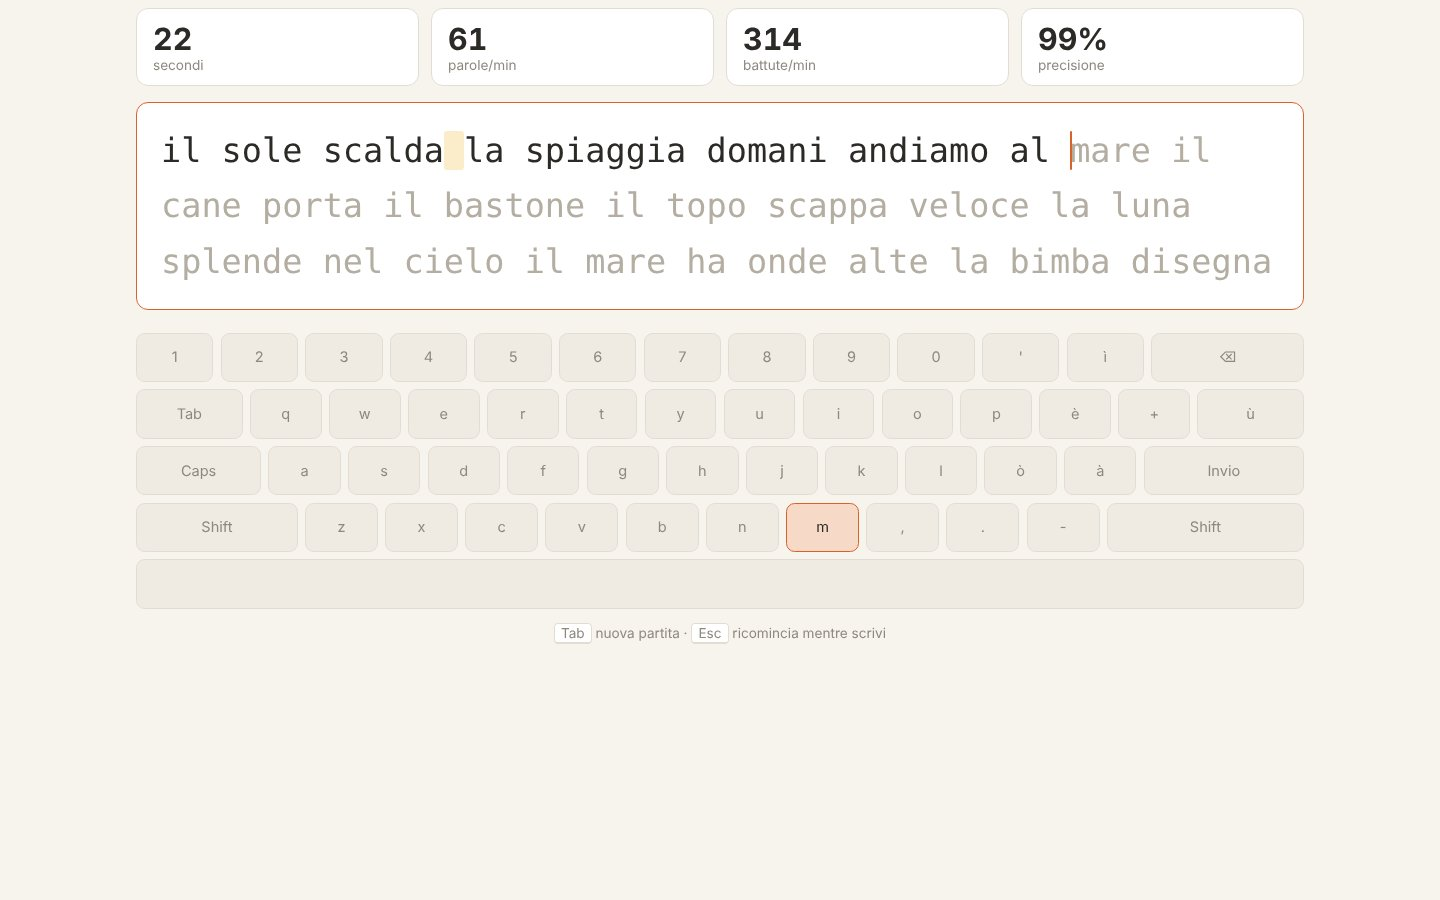
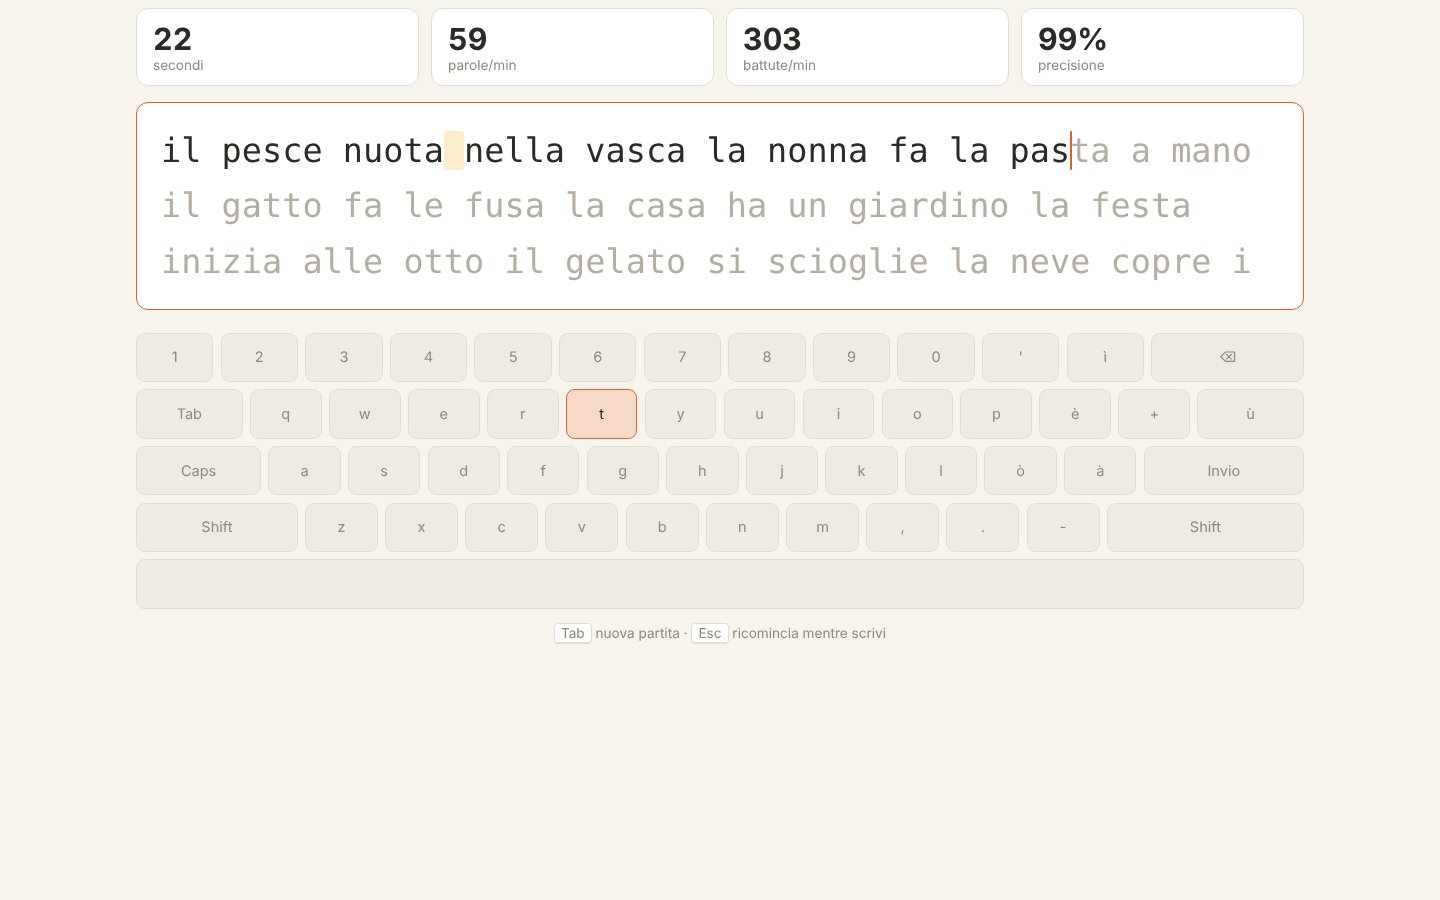
Produzione test-digitazione: studio del sito (esploratore)
Claude-Session: https://claude.ai/code/session_01CqqP6k4GxnS65Xhse5CfSK

diff --git a/studio-video/docs/produzione/test-digitazione/sito.md b/studio-video/docs/produzione/test-digitazione/sito.md
@@ -1,0 +1,166 @@
+# Sito — Test di digitazione (esploratore)
+
+Fonti: `sito/sito.json` (cattura del 2026-11-06 su `http://127.0.0.1:8790/index.html`),
+le catture in `sito/` (guardate una per una), i testi dell'interfaccia in `testi.js`,
+il `README.md` del test. Sito pubblico: `elnachohub.github.io/test-digitazione`.
+
+## Cosa fa, per chi
+
+**In una frase:** un test di velocità di scrittura sulla tastiera che fa copiare
+"frasi di senso compiuto" in italiano o inglese, con un cronometro, e alla fine
+mostra parole al minuto, precisione, un grafico e i tasti sbagliati.
+
+**Per chi:** studenti, chi lavora al computer e chi vuole scrivere più veloce, in
+italiano e in inglese (l'interfaccia cambia lingua con il mondo in alto a destra:
+"Italiano / English").
+
+## Vantaggi più forti (con le parole del sito)
+
+1. **Si parte subito:** "Clicca qui e inizia a scrivere: il tempo parte al primo tasto."
+   Durate "30 s · 60 s · 120 s", livelli "Facile · Medio · Difficile".
+2. **Testi veri, non lettere a caso:** "Frasi di senso compiuto · tastiera QWERTY",
+   in italiano e inglese; interruttori "Maiuscole e punteggiatura" e "Lettere accentate",
+   tastiera "Italiana" o "Americana (US)".
+3. **Risultato completo:** "parole/min", "battute/min", "precisione", "caratteri giusti",
+   "record", più il grafico "Andamento della sfida" (Velocità, Errori, Fluidità secondo
+   per secondo).
+4. **Capisci dove sbagli:** "Errori per tipo", "Tasti più sbagliati", "Serie di parole
+   senza errori" ("Un pallino per parola: verde se scritta senza nessun errore").
+   Durante il test la tastiera sullo schermo evidenzia il prossimo tasto.
+5. **Modalità Arcade (la sfida):** "Arcade: parti con 45 secondi. Ogni frase completata
+   ti dà tempo, le frasi perfette di più." Con punti, moltiplicatore "×2 ×3 ×4" e serie.
+
+Extra utili per il promo: profili per più persone sullo stesso browser e "Tabella sfida"
+("I profili di questo browser, con le impostazioni attuali"): è una sfida tra chi usa
+lo stesso computer, **non** una classifica online. Privacy, dal README: "Profili e
+risultati restano solo nel tuo browser: il sito non ha un server e non raccoglie dati
+personali."
+
+## Prove vere
+
+**Mancano.** Il sito non riporta numeri di utenti, recensioni, valutazioni o classifiche
+mondiali. Le parole "gratis" e "senza registrazione" non sono scritte da nessuna parte
+(né nel sito né nel README): non si vede nessun accesso o account, ma la frase non c'è.
+Frase usabile e dimostrabile: "i tuoi risultati restano nel tuo browser" (README).
+I numeri nelle catture (60 parole/min, 100%) sono di una nostra partita di prova
+automatica: si possono mostrare come esempio di schermata, **mai** come prova o media.
+
+## Colori, stile, tema
+
+- **Accento del marchio:** `#d9622b` (arancione bruciato; unico candidato in
+  `sito.json`, è anche `--accento` di `stile.css` e `theme_color` del manifest).
+- Sfondo pagina `#f7f4ee` (crema), testo `#2b2a27`, schede bianche con bordo `#e2ddd3`,
+  angoli arrotondati 12 px; caratteri di sistema senza grazie, testo da copiare in
+  monospazio. Esiste anche un tema scuro automatico (`prefers-color-scheme`).
+- **Tema Studio Video più vicino: `carta`** (sfondo `#f2ebdd` crema, accento `#d6461f`)
+  con `"accento": "#d9622b"`. Il carattere `editoriale` di carta è più da rivista del
+  sito: per il tono giocoso proverei `"carattere": "grottesco"` o `"pulito"` (scelta
+  dell'art director).
+- **Logo:** copiato in `sito/logo.png` (icona 512×512: tasto crema con "a" e cursore
+  arancione su fondo `#d9622b`). Nel JSON: `"logo": "sito/logo.png"`.
+
+## Catture disponibili (tutte in `sito/`)
+
+| File | Misura | Cosa mostra |
+|---|---|---|
+| `computer-schermo.jpg` | 1440×900 | prima visita, nessun clic (vedi rischio 1: livello non evidenziato) |
+| `computer-pagina.jpg` | 1440×1369 | pagina intera su computer, con "Punteggi di Giocatore 1" vuoti |
+| `telefono-pagina.jpg` | 1170×4431 | pagina intera su telefono (senza tastiera disegnata) |
+| `stato-1-scelte.jpg` | 1440×900 | Classica + **30 s** + **Facile** scelti, testo pronto, "Clicca qui e inizia a scrivere" |
+| `stato-2-scrittura.jpg` | 1440×900 | test in corso: 22 secondi, 59 parole/min, 99%; testo scritto in nero, tasto "t" evidenziato, un errore di spazio in giallo |
+| `stato-3-risultati.jpg` | 1440×900 | "Risultato": 60 parole/min, 304 battute/min, 100%, 151 caratteri giusti, record 60 + grafico |
+| `stato-4-grafico.jpg` | 1440×900 | grafico "Andamento della sfida", "Errori per tipo", "Tasti più sbagliati", serie, "Nuova partita" |
+| `logo.png` | 512×512 | icona del sito |
+
+Gli stati 1-4 vengono dalla stessa partita (Classica, 30 s, Facile, maiuscole spente,
+tastiera italiana), quindi testo e numeri sono coerenti tra loro. Script:
+`/tmp/claude-0/-home-user-test-digitazione/261a504a-6831-58fc-9788-a92cfa78f0c8/scratchpad/esploratore/stati.js`
+(viewport 1440×900, JPEG 85, non a pagina intera).
+
+## Percorso del tutorial (passi con coordinate)
+
+Coordinate `x`,`y` = centro dell'elemento in frazioni dell'immagine 1440×900,
+misurate con `getBoundingClientRect()` / `innerWidth`, `innerHeight` nella stessa
+sessione delle catture. Una scena `tutorial` = una sola immagine, quindi il percorso
+è diviso in 3-4 scene (≥ 2,5 s a passo).
+
+**Scena A — scegli (`sito/stato-1-scelte.jpg`)**
+
+| Passo | Testo suggerito | x | y |
+|---|---|---|---|
+| 1 | Scegli la durata: 30 secondi | 0.311 | 0.270 |
+| 2 | Scegli il livello: Facile | 0.475 | 0.270 |
+| 3 | Clicca sul testo e inizia a scrivere | 0.500 | 0.645 |
+
+Altri punti della stessa immagine: Classica 0.150,0.270 · Arcade 0.228,0.270 ·
+60 s 0.355,0.270 · 120 s 0.401,0.270 · Medio 0.529,0.270 · Difficile 0.587,0.270 ·
+lingua (mondo) 0.872,0.050 · scritta "Clicca qui e inizia a scrivere" 0.500,0.744.
+
+**Scena B — scrivi (`sito/stato-2-scrittura.jpg`)** (la pagina scorre da sola e
+inquadra testo e tastiera quando cominci)
+
+| Passo | Testo suggerito | x | y |
+|---|---|---|---|
+| 1 | Il tempo parte al primo tasto | 0.193 | 0.043 |
+| 2 | La velocità cresce mentre scrivi | 0.398 | 0.043 |
+| 3 | La tastiera ti indica il prossimo tasto | 0.418 | 0.460 |
+
+Altri punti: precisione 0.807,0.043 · cursore nel testo ~0.743,0.167 · errore di
+spazio in giallo ~0.315,0.167 · area del testo 0.500,0.352.
+
+**Scena C — risultati (`sito/stato-3-risultati.jpg`)**
+
+| Passo | Testo suggerito | x | y |
+|---|---|---|---|
+| 1 | Le tue parole al minuto | 0.186 | 0.130 |
+| 2 | Precisione e record | 0.500 | 0.130 |
+| 3 | Il grafico secondo per secondo | 0.500 | 0.465 |
+
+Altri punti: record 0.814,0.130 · titolo "Risultato" 0.500,0.057.
+
+**Scena D (facoltativa) — dove sbagli e rigioca (`sito/stato-4-grafico.jpg`)**
+
+| Passo | Testo suggerito | x | y |
+|---|---|---|---|
+| 1 | Vedi i tasti che sbagli | 0.500 | 0.623 |
+| 2 | Le parole perfette di fila | 0.500 | 0.774 |
+| 3 | Nuova partita: batti il record | 0.500 | 0.873 |
+
+(Per il passo 1 si può puntare proprio a "Tasti più sbagliati": ~0.550,0.598.)
+
+Durata indicativa: 4 scene × 3 passi × 2,5-3 s ≈ 30-36 s, dentro i 25-40 s del brief.
+
+## Quali catture per quali scene
+
+- **Promo 9:16:** scena `schermata` con `dispositivo: "telefono"` e
+  `telefono-pagina.jpg` con `scorri: true` (pagina vera da telefono); in alternativa
+  `stato-3-risultati.jpg` per mostrare il "60 parole/min" come esempio di risultato
+  (senza dire che è una media o un record di qualcuno). Logo `sito/logo.png` in apertura
+  e nella `cta`.
+- **Tutorial 16:9:** scene `tutorial` A-D come sopra (stato-1 → stato-4). Una scena
+  `schermata` `browser` con `computer-pagina.jpg` e `scorri: true` può servire come
+  panoramica iniziale. **Non** usare `computer-schermo.jpg` per i passi (rischio 1).
+- **Vantaggi (`punti`):** testi presi dalla sezione Vantaggi; nessun numero inventato.
+
+## Rischi
+
+1. **Difetto del sito alla prima visita** (visibile in `computer-schermo.jpg` e
+   `computer-pagina.jpg`): nessun livello è evidenziato e l'interruttore "Maiuscole e
+   punteggiatura" sembra spento, ma le frasi hanno maiuscole e punti. Causa in
+   `app.js` riga 101: un commento `//` "inghiotte" `livello: "medio", punteggiatura: true,
+   accenti: false`. Non tocca a noi correggerlo (sito del titolare): da segnalare. Per
+   le catture degli stati ho cliccato Facile e acceso/spento l'interruttore, così
+   schermata e testo sono coerenti (minuscole, interruttore spento).
+2. **Stato 2 con un errore voluto:** lo spazio dopo "nuota" è evidenziato in giallo
+   (errore minore). Utile per spiegare gli errori, ma va detto nel testo o ignorato.
+3. **Numeri delle catture = nostra partita automatica**, non dati del cliente.
+4. **Nessuna parola "gratis" / "senza registrazione"** nel sito: non usarle come
+   citazione (vedi Prove vere).
+5. **Telefono:** su mobile non c'è la tastiera disegnata e compare il pulsante
+   "Ricomincia" solo al tocco; la cattura telefono è lunga (4431 px), serve `scorri`.
+6. **Lingua:** l'interfaccia è in italiano nelle catture; esiste tutta in inglese
+   ("Typing test", "Meaningful sentences · QWERTY keyboard") ma non ho catture in
+   inglese. Nessun popup né pagine vuote; "Ancora nessun test: inizia a scrivere!"
+   compare nei punteggi prima del primo test.
+7. **Tema scuro automatico:** chi ha il sistema scuro vede il sito scuro, diverso
+   dalle catture (chiare).
